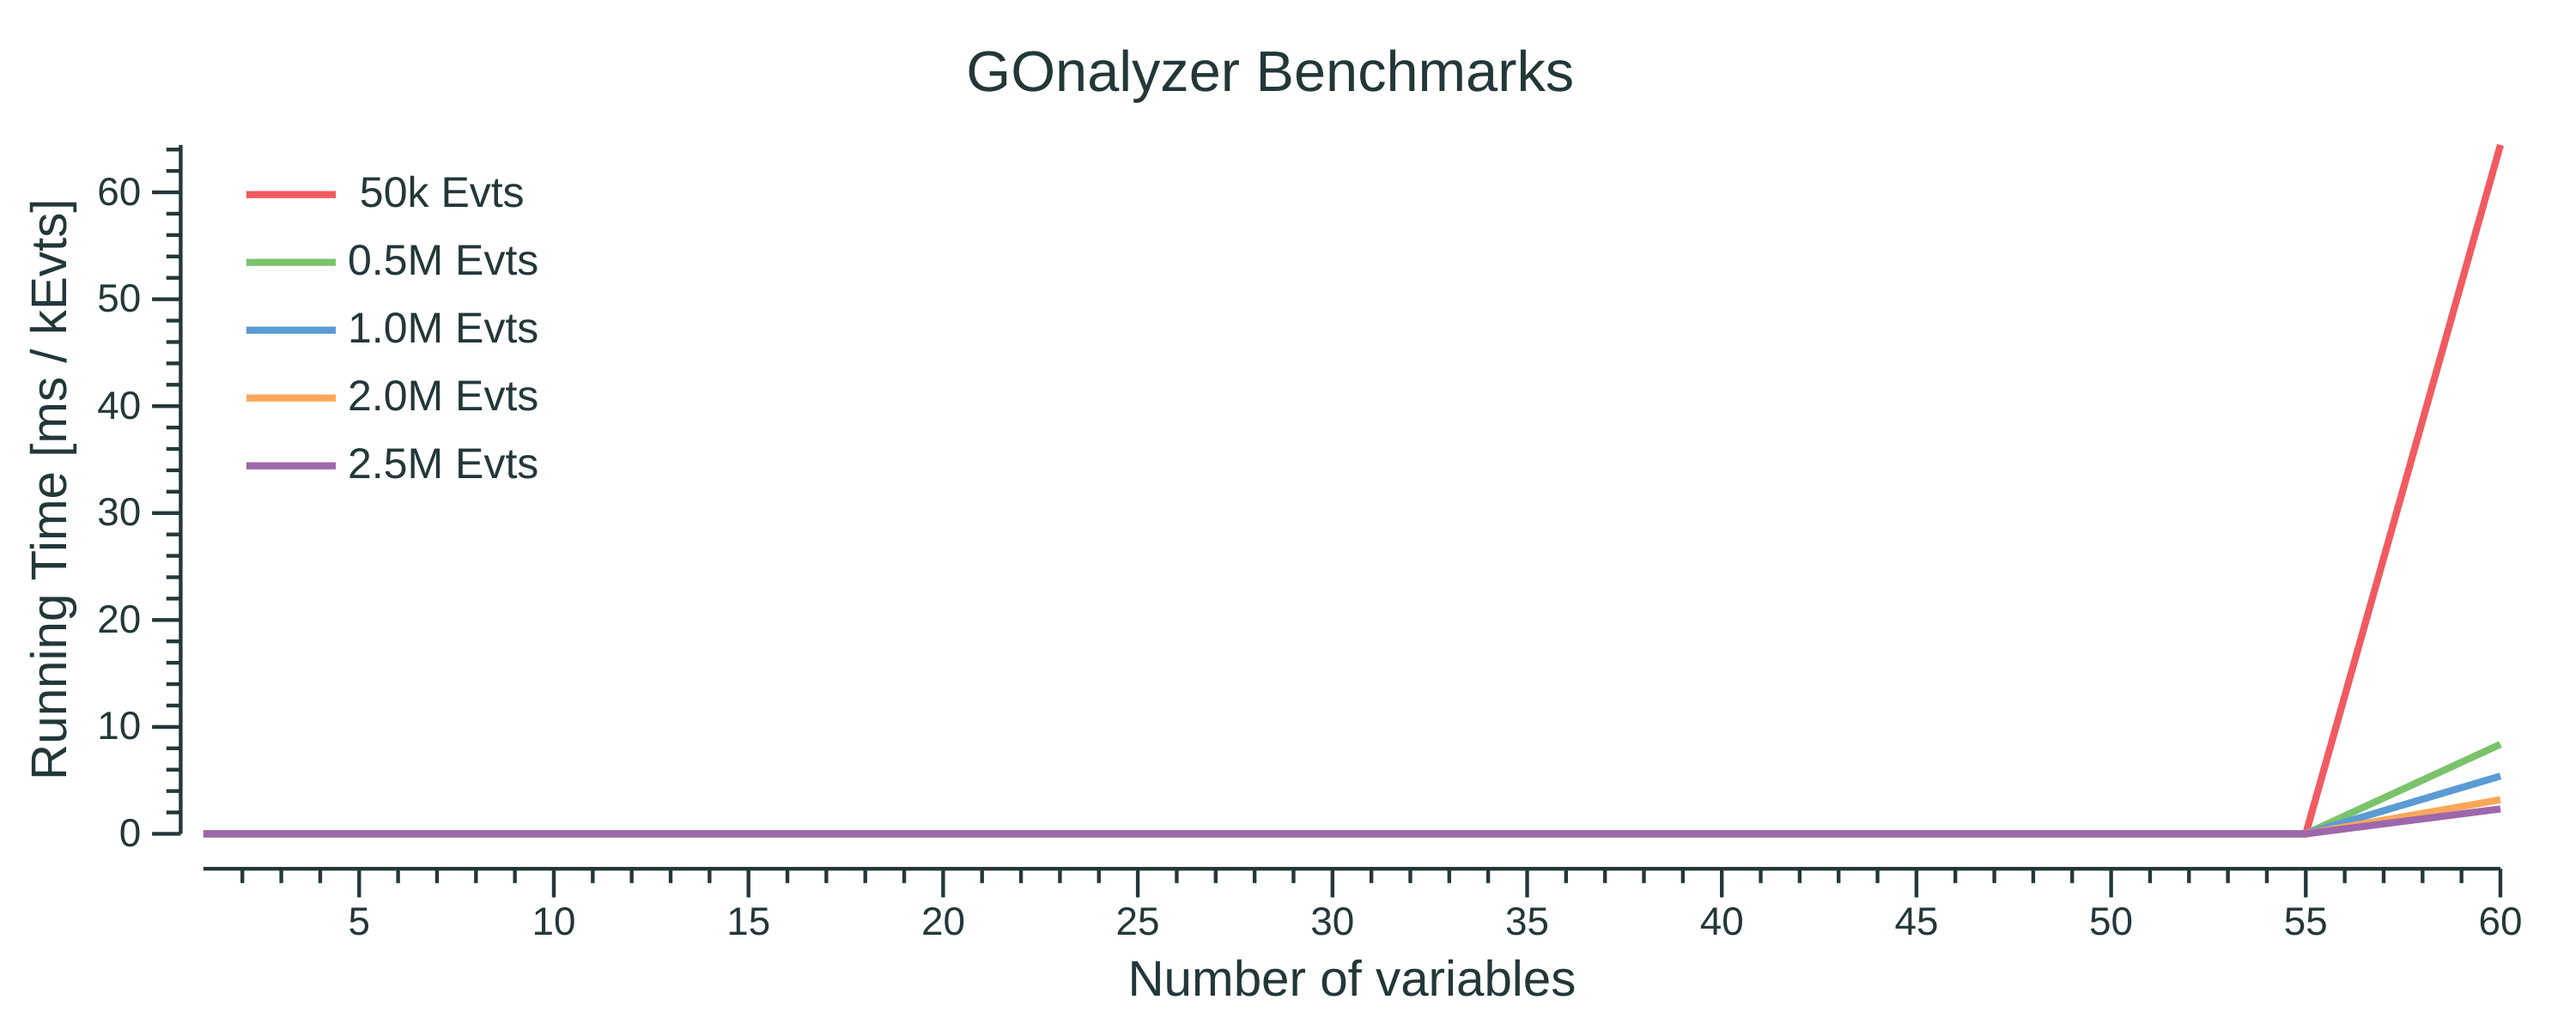
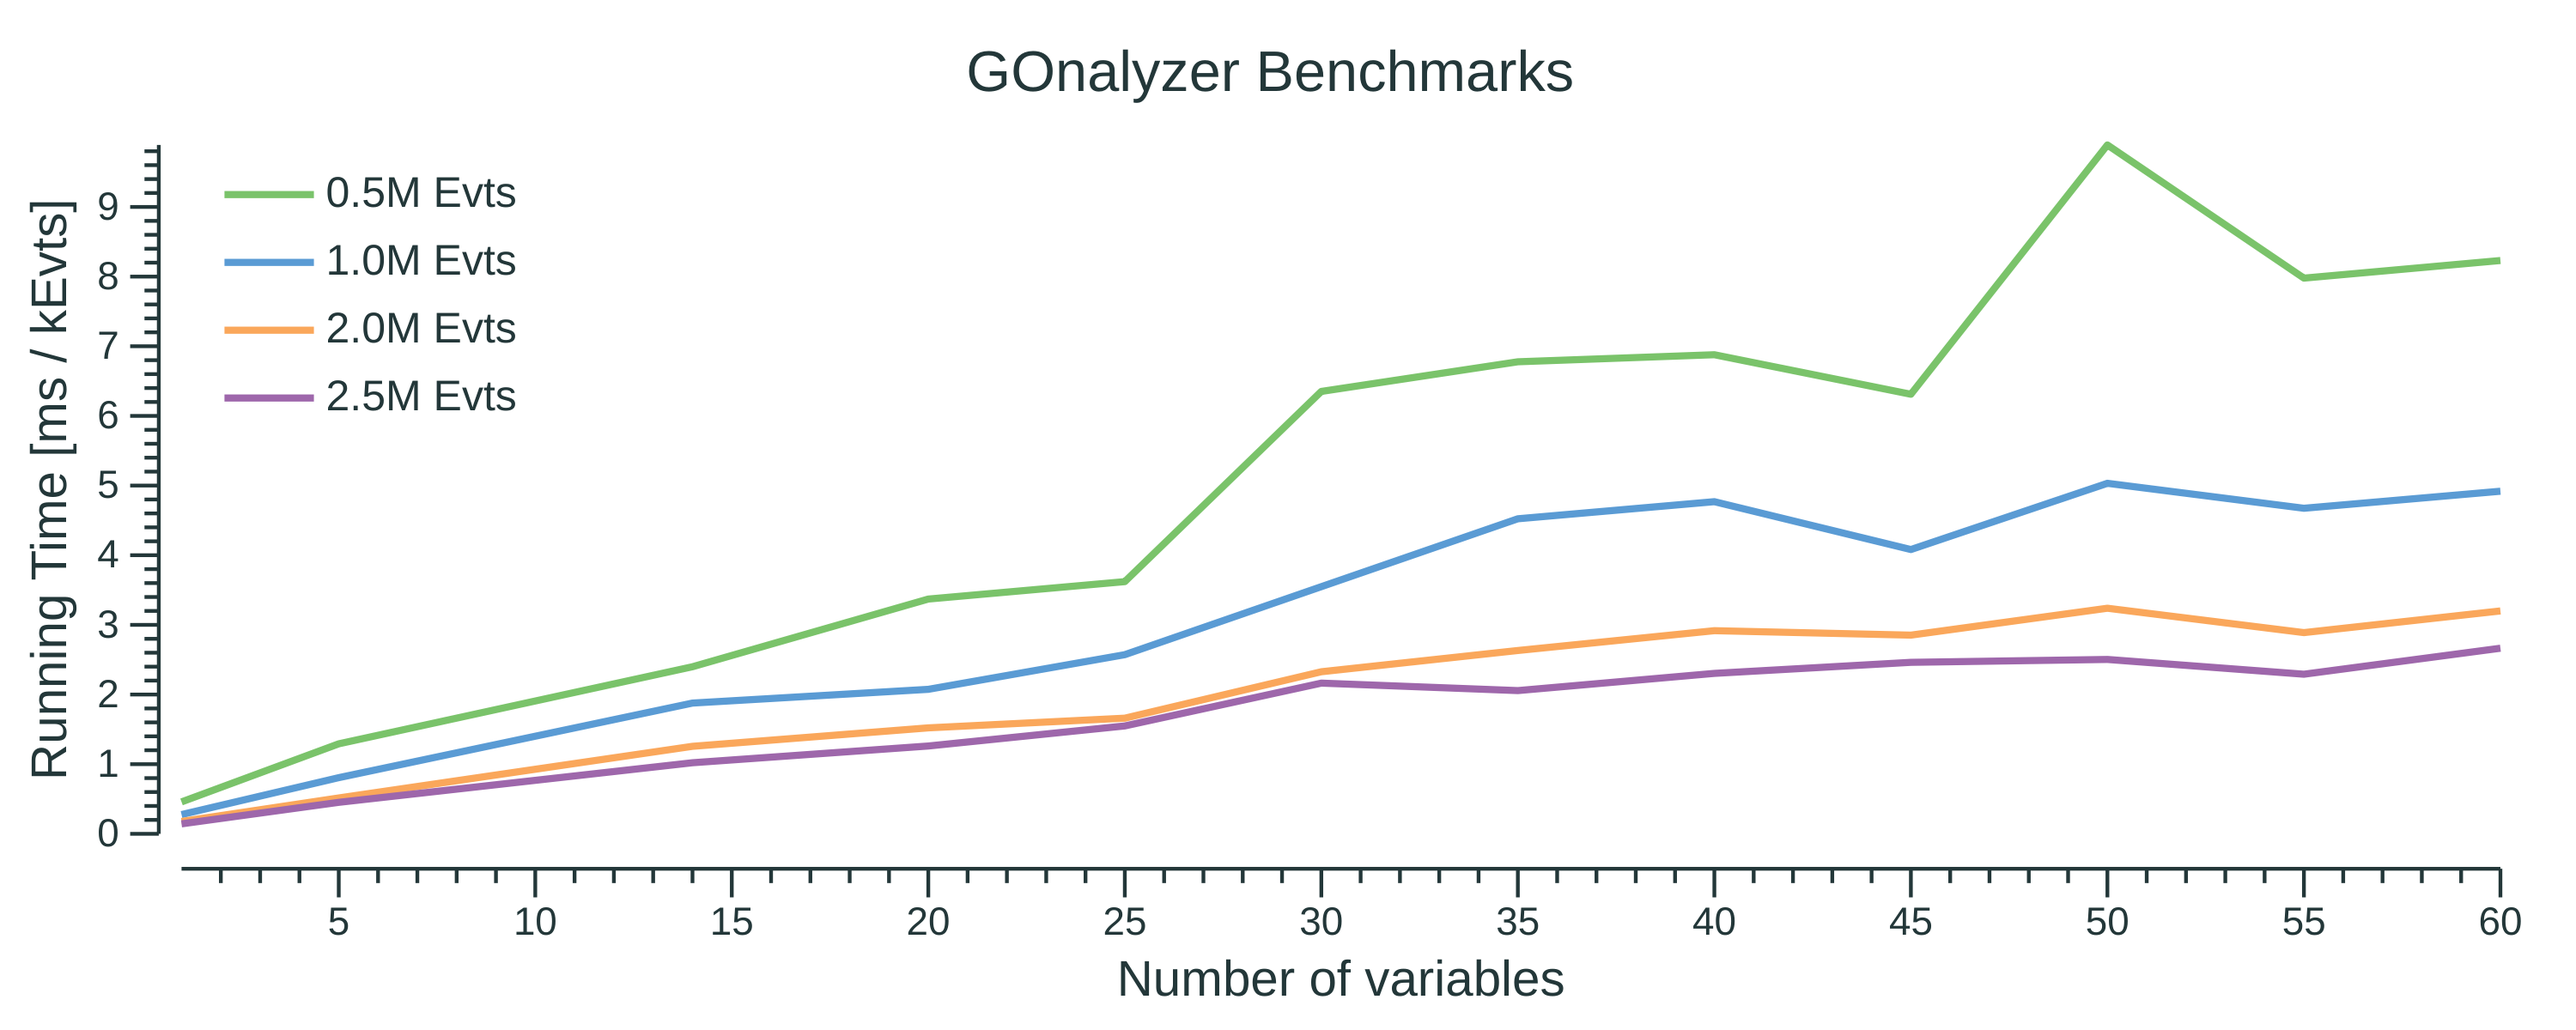
Updating perf plot

diff --git a/ana/perf/main.go b/ana/perf/main.go
@@ -35,20 +35,17 @@ func main() {
 	// Run all test
 	for i, n := range nVars {
 
-		if n == 60 {
-			
-			fmt.Println("Running for nVars =", n)
-			t0[i] = runTest(nEvts0, int(n))
-			fmt.Printf("  -> 50k evts: %.2f ms/kEvts\n", t0[i])
-			t1[i] = runTest(nEvts1, int(n))
-			fmt.Printf("  -> 0.5M evts: %.2f ms/kEvts\n", t1[i])
-			t2[i] = runTest(nEvts2, int(n))
-			fmt.Printf("  -> 1.0M evts: %.2f ms/kEvts\n", t2[i])
-			t3[i] = runTest(nEvts3, int(n))
-			fmt.Printf("  -> 2.0M evts: %.2f ms/kEvts\n", t3[i])
-			t4[i] = runTest(nEvts4, int(n))
-			fmt.Printf("  -> 2.5M evts: %.2f ms/kEvts\n", t4[i])
-		}
+		fmt.Println("Running for nVars =", n)
+		t0[i] = runTest(nEvts0, int(n))
+		fmt.Printf("  -> 50k evts: %.2f ms/kEvts\n", t0[i])
+		t1[i] = runTest(nEvts1, int(n))
+		fmt.Printf("  -> 0.5M evts: %.2f ms/kEvts\n", t1[i])
+		t2[i] = runTest(nEvts2, int(n))
+		fmt.Printf("  -> 1.0M evts: %.2f ms/kEvts\n", t2[i])
+		t3[i] = runTest(nEvts3, int(n))
+		fmt.Printf("  -> 2.0M evts: %.2f ms/kEvts\n", t3[i])
+		t4[i] = runTest(nEvts4, int(n))
+		fmt.Printf("  -> 2.5M evts: %.2f ms/kEvts\n", t4[i])
 	}
 
 	// Plot benchmarks
@@ -81,7 +78,7 @@ func plotBenchmarks(s0, s1, s2, s3, s4, n []float64) {
 	applyStyle(g4, 4)
 
 	// Add graph to the legend
-	p.Legend.Add(` 50k Evts`, g0)
+	//p.Legend.Add(` 50k Evts`, g0)
 	p.Legend.Add(`0.5M Evts`, g1)
 	p.Legend.Add(`1.0M Evts`, g2)
 	p.Legend.Add(`2.0M Evts`, g3)
@@ -92,7 +89,7 @@ func plotBenchmarks(s0, s1, s2, s3, s4, n []float64) {
 	p.Legend.YOffs = -8
 
 	// Add graph to the plot
-	p.Add(g0)
+	//p.Add(g0)
 	p.Add(g1)
 	p.Add(g2)
 	p.Add(g3)
